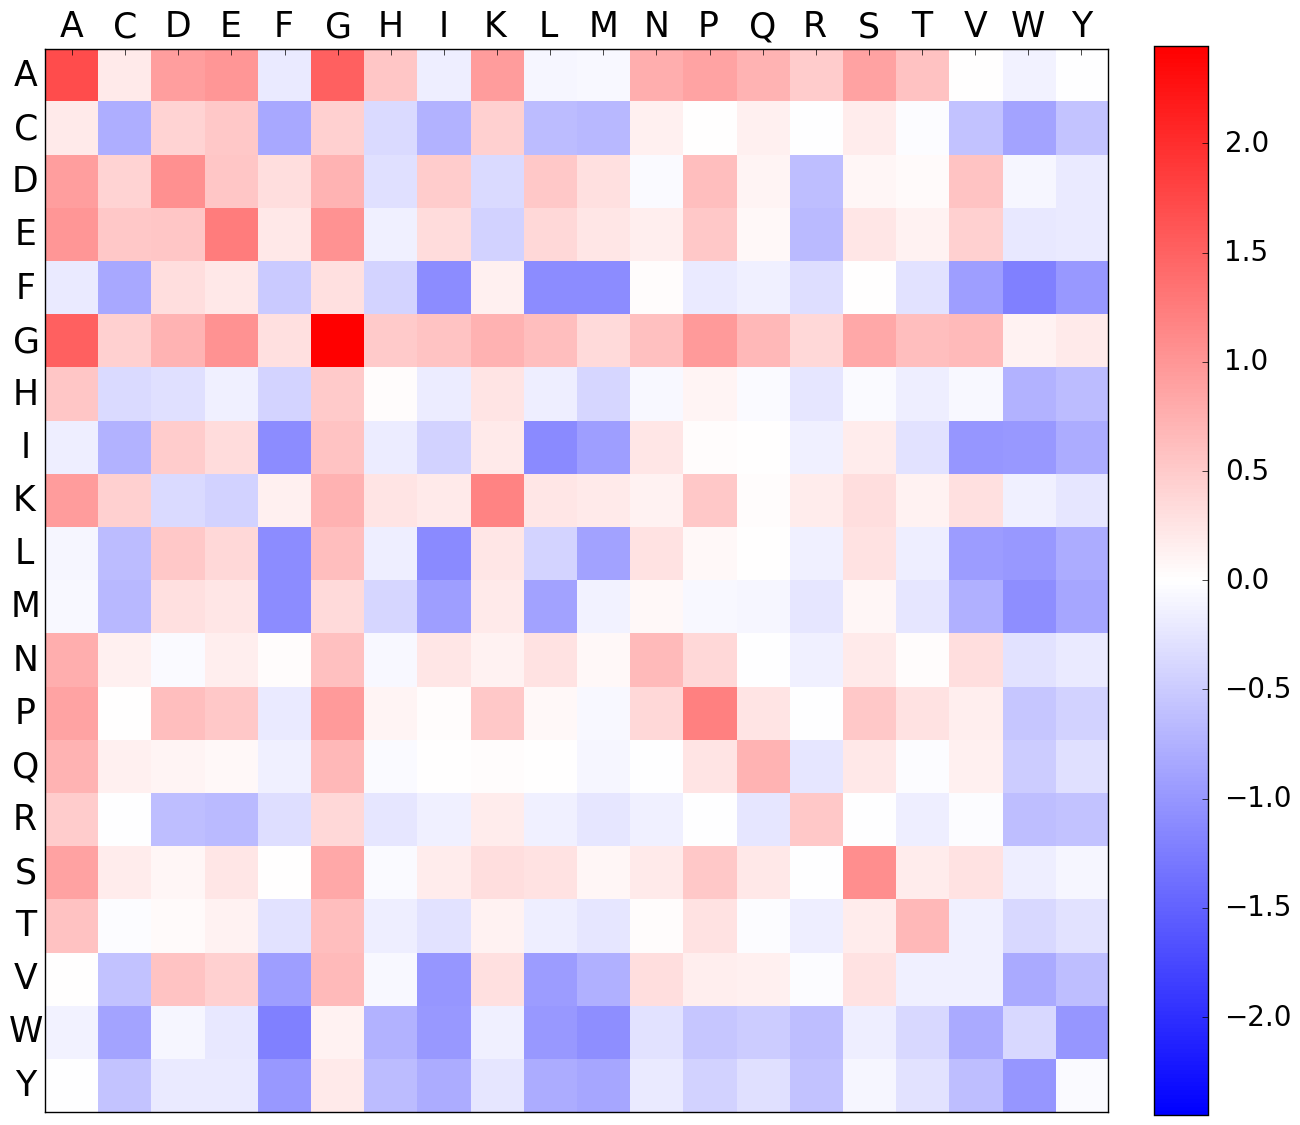
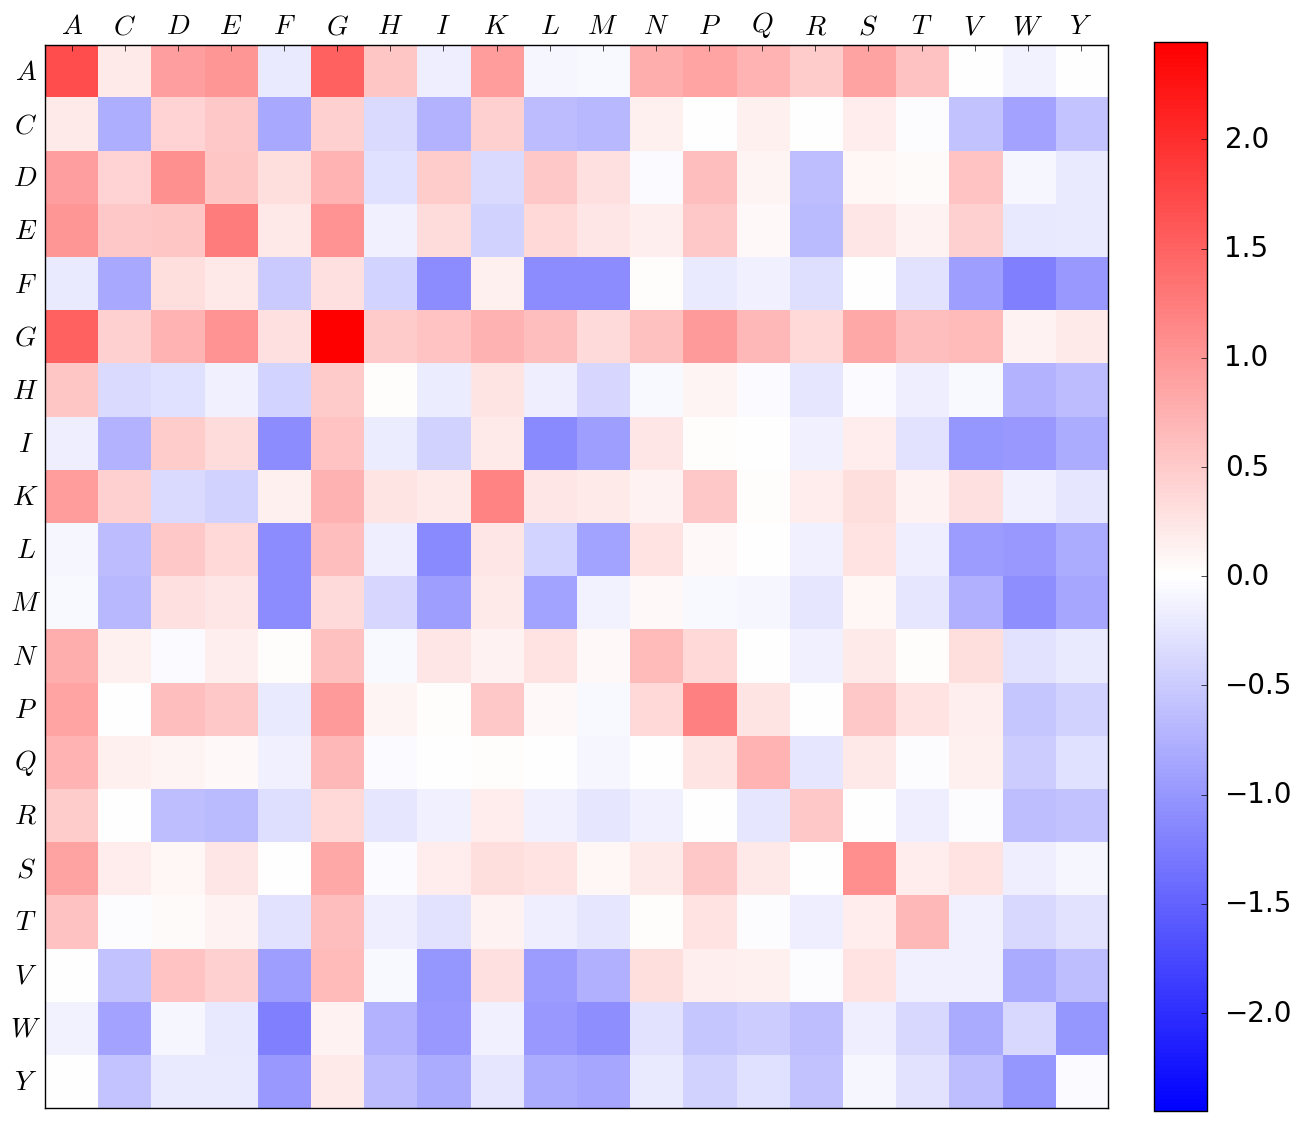
Updated MJ matrix

diff --git a/index.html b/index.html
@@ -50,23 +50,6 @@
 <br>
 <p>
 National Institutes of Health (NIH)<br>National Institute of Diabetes and Digestive and Kidney Diseases (NIDDK)<br>Laboratory of Chemical Physics (LCP), Theoretical Biophysical Chemistry</p>
-</section><section class="vertical-slide"  data-background-transition="none">
-<p>
-<h2>People involved</h2><h3>Allen Minton, Di Wu</h3></p>
-<a href="images/people/minton.jpg">
-    <img class="" src="images/people/minton.jpg" height="250">
-    </a>
-<a href="images/people/di.jpg">
-    <img class="" src="images/people/di.jpg" height="250">
-    </a>
-<p>
-<h3>Robert Best, Wenwei Zheng</h3></p>
-<a href="images/people/robert.jpg">
-    <img class="" src="images/people/robert.jpg" height="250">
-    </a>
-<a href="images/people/wenwei.jpg">
-    <img class="" src="images/people/wenwei.jpg" height="250">
-    </a>
 </section>
 </section><section class="vertical-stack">
 <section class="vertical-slide"  data-background-transition="none">
@@ -78,6 +61,23 @@ National Institutes of Health (NIH)<br>National Institute of Diabetes and Digest
 <br>
 <p>
 <h3>Time</h3></p>
+</section><section class="vertical-slide"  data-background-transition="none">
+<p>
+<h2>People involved</h2><h3>Robert Best, Wenwei Zheng</h3></p>
+<a href="images/people/robert.jpg">
+    <img class="" src="images/people/robert.jpg" height="250">
+    </a>
+<a href="images/people/wenwei.jpg">
+    <img class="" src="images/people/wenwei.jpg" height="250">
+    </a>
+<p>
+<h3>Allen Minton, Di Wu</h3></p>
+<a href="images/people/minton.jpg">
+    <img class="" src="images/people/minton.jpg" height="250">
+    </a>
+<a href="images/people/di.jpg">
+    <img class="" src="images/people/di.jpg" height="250">
+    </a>
 </section><section class="vertical-slide"  data-background-transition="none">
 <p>
 <h2>Biological question</h2></p>
@@ -441,7 +441,7 @@ IDP (intrinsically disordered proteins) do not!</p>
 <p>
 <h3>Residue-residue interaction matrix, MJ</h3></p>
 <a href="images/mj_potential/MJ_matrix.png">
-    <img class="transparent_image" src="images/mj_potential/MJ_matrix.png" >
+    <img class="transparent_image" src="images/mj_potential/MJ_matrix.png" height="700">
     </a>
 <br>
 <p>
@@ -449,9 +449,9 @@ IDP (intrinsically disordered proteins) do not!</p>
 </section><section class="vertical-slide"  data-background-transition="none">
 <p>
 <h3>MJ matrix reveals biophysical structure</h3></p>
-<br>
-<p>
-DIAGONALIZED MJ MATRIX HERE</p>
+<a href="images/mj_potential/MJ_matrix_remaped.png">
+    <img class="transparent_image" src="images/mj_potential/MJ_matrix_remaped.png" height="700">
+    </a>
 </section>
 </section><section class="vertical-stack">
 <section class="vertical-slide"  data-background-transition="none">
@@ -909,13 +909,13 @@ DIAGONALIZED MJ MATRIX HERE</p>
 <p>
 MJ contact energy can reproduce MF energy!</p>
 <a href="images/estimation_MF_MJ.png">
-    <img class="transparent_image" src="images/estimation_MF_MJ.png" >
+    <img class="transparent_image" src="images/estimation_MF_MJ.png" height="700">
     </a>
 </section><section class="vertical-slide"  data-background-transition="none">
 <p>
 MJ contact energy can reproduce MF energy!</p>
 <a href="images/estimation_MF_MJ_per_N.png">
-    <img class="transparent_image" src="images/estimation_MF_MJ_per_N.png" >
+    <img class="transparent_image" src="images/estimation_MF_MJ_per_N.png" height="700">
     </a>
 </section>
 </section><section class="vertical-stack">
@@ -923,16 +923,16 @@ MJ contact energy can reproduce MF energy!</p>
 <p>
 MF Energy distributions: Physically reasonable</p>
 <a href="images/mean_field_calc/average_self_energy.png">
-    <img class="" src="images/mean_field_calc/average_self_energy.png" height="325">
+    <img class="transparent_image" src="images/mean_field_calc/average_self_energy.png" height="325">
     </a>
 <a href="images/mean_field_calc/residue_propensity.png">
-    <img class="" src="images/mean_field_calc/residue_propensity.png" height="325">
+    <img class="transparent_image" src="images/mean_field_calc/residue_propensity.png" height="325">
     </a>
 <a href="images/mean_field_calc/MF_vs_hydrophilicity.png">
-    <img class="" src="images/mean_field_calc/MF_vs_hydrophilicity.png" height="325">
+    <img class="transparent_image" src="images/mean_field_calc/MF_vs_hydrophilicity.png" height="325">
     </a>
 <a href="images/mean_field_calc/MF_vs_Garbuzynskiy.png">
-    <img class="" src="images/mean_field_calc/MF_vs_Garbuzynskiy.png" height="325">
+    <img class="transparent_image" src="images/mean_field_calc/MF_vs_Garbuzynskiy.png" height="325">
     </a>
 <br>
 <p>

diff --git a/images/mj_potential/plot_matrix.py b/images/mj_potential/plot_matrix.py
@@ -1,55 +1,87 @@
 import numpy as np
 import pandas as pd
+import scipy.cluster.vq
+import scipy.cluster.hierarchy
 import json
 from Bio.PDB.Polypeptide import three_to_one
-
-with open("model_system.json") as FIN:
-    js = json.load(FIN)
-
-A = js["interaction_matrix"]
-cols = js["interaction_matrix_labels"]
-cols = [three_to_one(x) for x in cols]
-
-
-MJ = pd.DataFrame(A, columns=cols, index=cols)
-
 import pylab as plt
 #import seaborn as sns
-r0,r1 = MJ.min().min(), MJ.max().max()
-r = max(abs(r0),abs(r1))
-
-m,n = 20,20
-fig = plt.figure(figsize=(15,15))
-#fig,axes = plt.subplots(111,figsize=(15,15))
-#fig.set_figheight(15)
-#fig.set_figwidthheight(15)
-#ax = axes[0]
 
 import matplotlib as mpl
 mpl.rcParams['ytick.major.pad'] = 14
 
+with open("model_system.json") as FIN:
+    js = json.load(FIN)
 
-ax=plt.imshow(MJ, 
-          interpolation='nearest', 
-          cmap='bwr',vmin=-r,vmax=r).get_axes()
+A = np.array(js["interaction_matrix"])
+cols = js["interaction_matrix_labels"]
+cols = [three_to_one(x) for x in cols]
+#clusters = "ADEGKNPQRST CFHILMVWY"
+#clusters = "ADEGKNPST CFHMWY ILQRV"
+clusters = "AG CFHMWY DEKNPQRST ILV"
+#clusters = "AG CW DEKPS FHMY ILV NQRT"
 
-ax.set_xticks(np.linspace(0, n-1, n))
-ax.set_xticklabels(MJ.columns)
-ax.set_yticks(np.linspace(0, m-1, m))
-ax.set_yticklabels(MJ.index)
-ax.grid('off')
-ax.xaxis.tick_top()
+clusters = list(clusters.replace(' ',''))
 
-ax.tick_params(axis='both', 
-               which='major', labelsize=25)
-cbar = plt.colorbar(fraction=.046, pad=0.04)
-cbar.ax.tick_params(labelsize=20) 
+MJ = pd.DataFrame(A, columns=cols, index=cols)
+MJ2 = MJ.reindex(columns=clusters, index=clusters, copy=True)
 
-for tick in ax.yaxis.get_major_ticks():
-    tick.tick1line.set_markersize(0)
-    tick.tick2line.set_markersize(0)
-    tick.label1.set_horizontalalignment('center')
+r0,r1 = MJ.min().min(), MJ.max().max()
+r = max(abs(r0),abs(r1))
+m,n = 20,20
 
+hydrophobic_res = "AILFVPG"
+polar_res       = "QNHSTYCMW"
+charged_res     = "RKDE"
+
+def plot_residue_matrix(A, rename=False):
+    fig = plt.figure(figsize=(15,15))
+    #fig = plt.figure(figsize=(12,12))
+
+    ax=plt.imshow(A, 
+              interpolation='nearest', 
+              cmap='bwr',vmin=-r,vmax=r).get_axes()
+
+    cols = list(A.index)
+    cols = [x if x not in hydrophobic_res else 
+            r"${}^h$".format(x)
+            for x in cols]
+    cols = [x if x not in charged_res else 
+            r"${}^c$".format(x)
+            for x in cols]
+    cols = [x if x not in polar_res else 
+            r"${}^p$".format(x)
+            for x in cols]
+    if not rename: 
+        cols = list(A.index)
+        cols = [r"${}$".format(x) for x in cols]     
+
+    ax.set_xticks(np.linspace(0, n-1, n))
+    ax.set_xticklabels(cols)
+    ax.set_yticks(np.linspace(0, m-1, m))
+    ax.set_yticklabels(cols)
+    ax.grid('off')
+    ax.xaxis.tick_top()
+
+    ax.tick_params(axis='both', 
+                   which='major', labelsize=20)
+    cbar = plt.colorbar(fraction=.046, pad=0.04)
+    cbar.ax.tick_params(labelsize=20) 
+
+    for tick in ax.yaxis.get_major_ticks():
+        tick.tick1line.set_markersize(0)
+        tick.tick2line.set_markersize(0)
+        tick.label1.set_horizontalalignment('center')
+
+    return fig
+
+plot_residue_matrix(MJ)
 plt.savefig("MJ_matrix.png",
             bbox_inches='tight',transparent=True)
+
+
+plot_residue_matrix(MJ2,rename=True)
+plt.savefig("MJ_matrix_remaped.png",
+            bbox_inches='tight',transparent=True)
+
 #plt.show()

diff --git a/IDP.md b/IDP.md
@@ -9,16 +9,6 @@ National Institutes of Health (NIH)
 National Institute of Diabetes and Digestive and Kidney Diseases (NIDDK)
 Laboratory of Chemical Physics (LCP), Theoretical Biophysical Chemistry
 
-====*
-
-## People involved
-### Allen Minton, Di Wu
-!(images/people/minton.jpg) <<height:250>>
-!(images/people/di.jpg)     <<height:250>>
-### Robert Best, Wenwei Zheng
-!(images/people/robert.jpg) <<height:250>>
-!(images/people/wenwei.jpg) <<height:250>>
-
 ====
 
 ## BIO*PHYSICS*
@@ -27,6 +17,15 @@ Laboratory of Chemical Physics (LCP), Theoretical Biophysical Chemistry
 ### Length
 
 ### Time
+
+====*
+## People involved
+### Robert Best, Wenwei Zheng
+!(images/people/robert.jpg) <<height:250>>
+!(images/people/wenwei.jpg) <<height:250>>
+### Allen Minton, Di Wu
+!(images/people/minton.jpg) <<height:250>>
+!(images/people/di.jpg)     <<height:250>>
 
 ====*
 
@@ -122,15 +121,15 @@ Residue-residue interactions, quasi-chemical lattice-gas
 ====*
 
 ### Residue-residue interaction matrix, MJ
-!(images/mj_potential/MJ_matrix.png)  <<transparent>> <<height:500>>
+!(images/mj_potential/MJ_matrix.png)  <<transparent; height:700>>
 
 && Other statistical potentials: [Tanaka and Scheraga](http://pubs.acs.org/doi/abs/10.1021/ma60054a013) (1976), [Spil](http://www.ncbi.nlm.nih.gov/pubmed/2359125) (1990), [Miyaza and Jernigan](http://www.ncbi.nlm.nih.gov/pubmed/8604144) (1996),<br>[Betancourt and Thirumalai](http://www.ncbi.nlm.nih.gov/pmc/articles/PMC2144252/) (1999), [Skolnick, Kolinski and Ortiz](http://onlinelibrary.wiley.com/doi/10.1002/%28SICI%291097-0134%2820000101%2938:1%3C3::AID-PROT2%3E3.0.CO;2-S/abstract) (2000)
 
 ====*
 
 ### MJ matrix reveals biophysical structure
+!(images/mj_potential/MJ_matrix_remaped.png)  <<transparent; height:700>>
 
-DIAGONALIZED MJ MATRIX HERE
 
 ====
 
@@ -143,16 +142,16 @@ DIAGONALIZED MJ MATRIX HERE
 
 ====*
 MJ contact energy can reproduce MF energy!
-!(images/estimation_MF_MJ.png)       <<transparent>> <<width:800>> 
+!(images/estimation_MF_MJ.png)       <<transparent; height:700>> 
 ====*
 MJ contact energy can reproduce MF energy!
-!(images/estimation_MF_MJ_per_N.png) <<transparent>>  <<width:800>> 
+!(images/estimation_MF_MJ_per_N.png) <<transparent; height:700>> 
 ====
 MF Energy distributions: Physically reasonable
-!(images/mean_field_calc/average_self_energy.png)  <<height:325>>
-!(images/mean_field_calc/residue_propensity.png)   <<height:325>>
-!(images/mean_field_calc/MF_vs_hydrophilicity.png) <<height:325>>
-!(images/mean_field_calc/MF_vs_Garbuzynskiy.png)   <<height:325>>
+!(images/mean_field_calc/average_self_energy.png)  <<transparent; height:325>>
+!(images/mean_field_calc/residue_propensity.png)   <<transparent; height:325>>
+!(images/mean_field_calc/MF_vs_hydrophilicity.png) <<transparent; height:325>>
+!(images/mean_field_calc/MF_vs_Garbuzynskiy.png)   <<transparent; height:325>>
 
 && [IDP Propensity](http://www.ncbi.nlm.nih.gov/pubmed/15657106), [Kyte-Doolittle](http://www.ncbi.nlm.nih.gov/pubmed/7108955), [Garbuzynskiy index](http://www.ncbi.nlm.nih.gov/pubmed/20019059)
 
